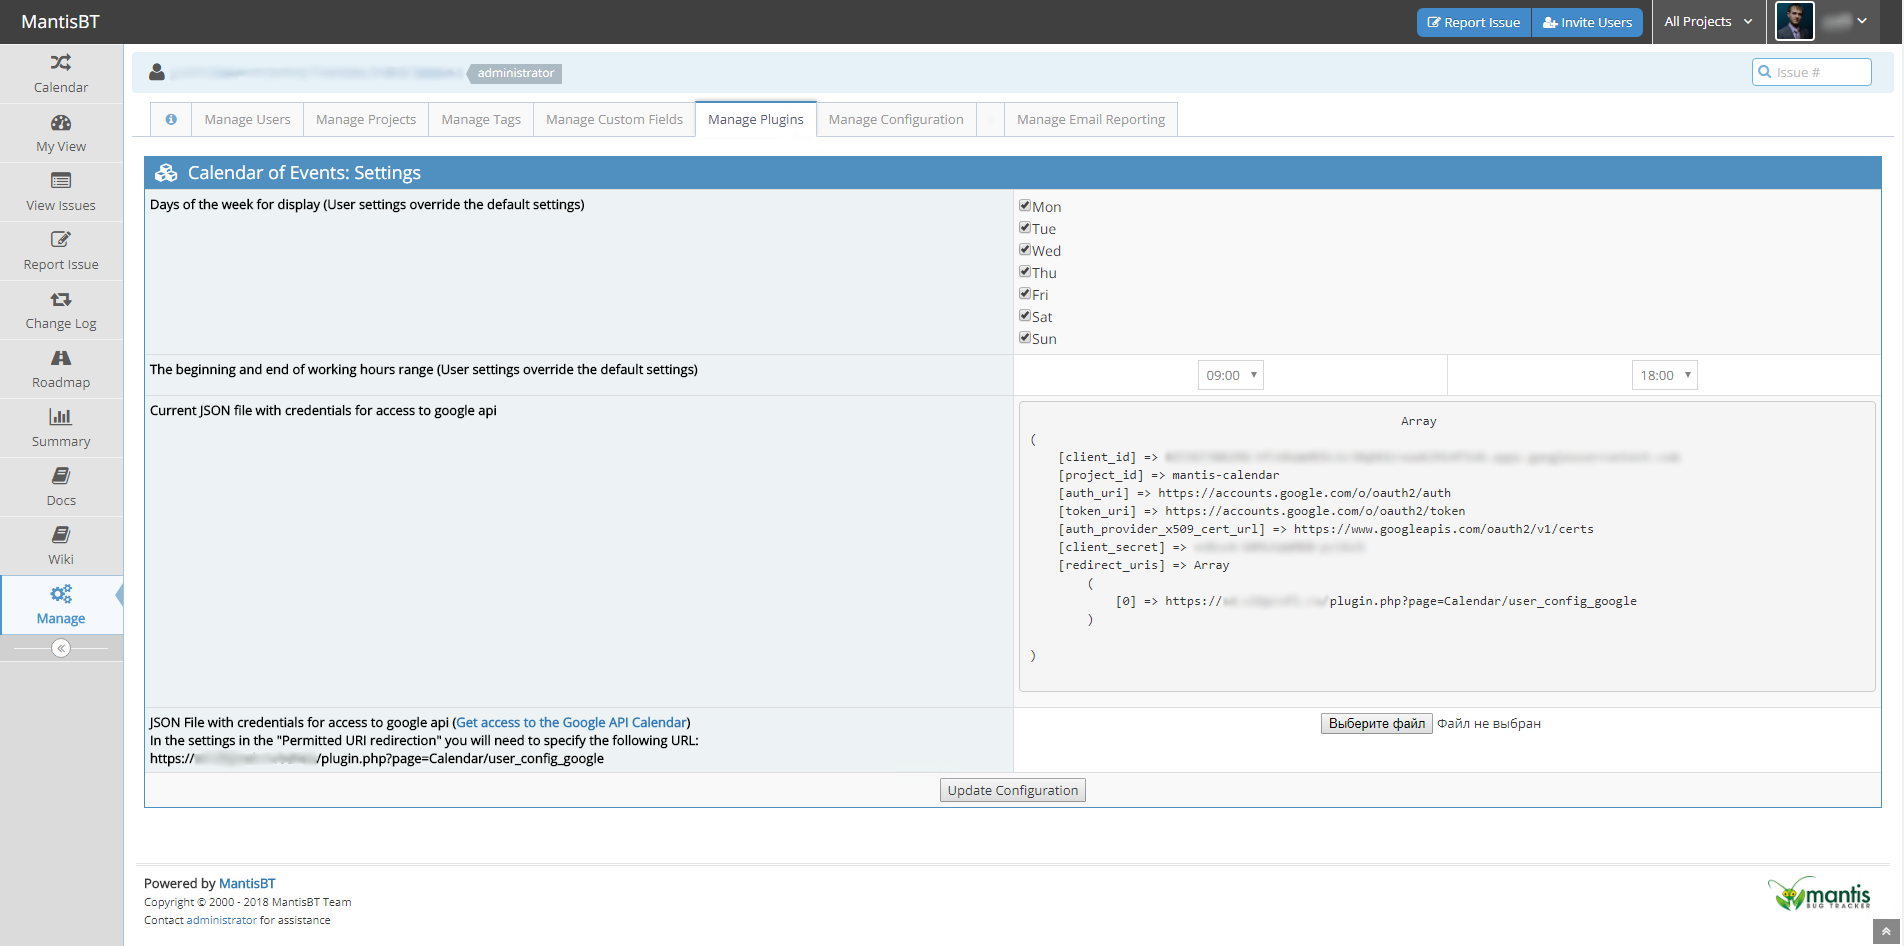
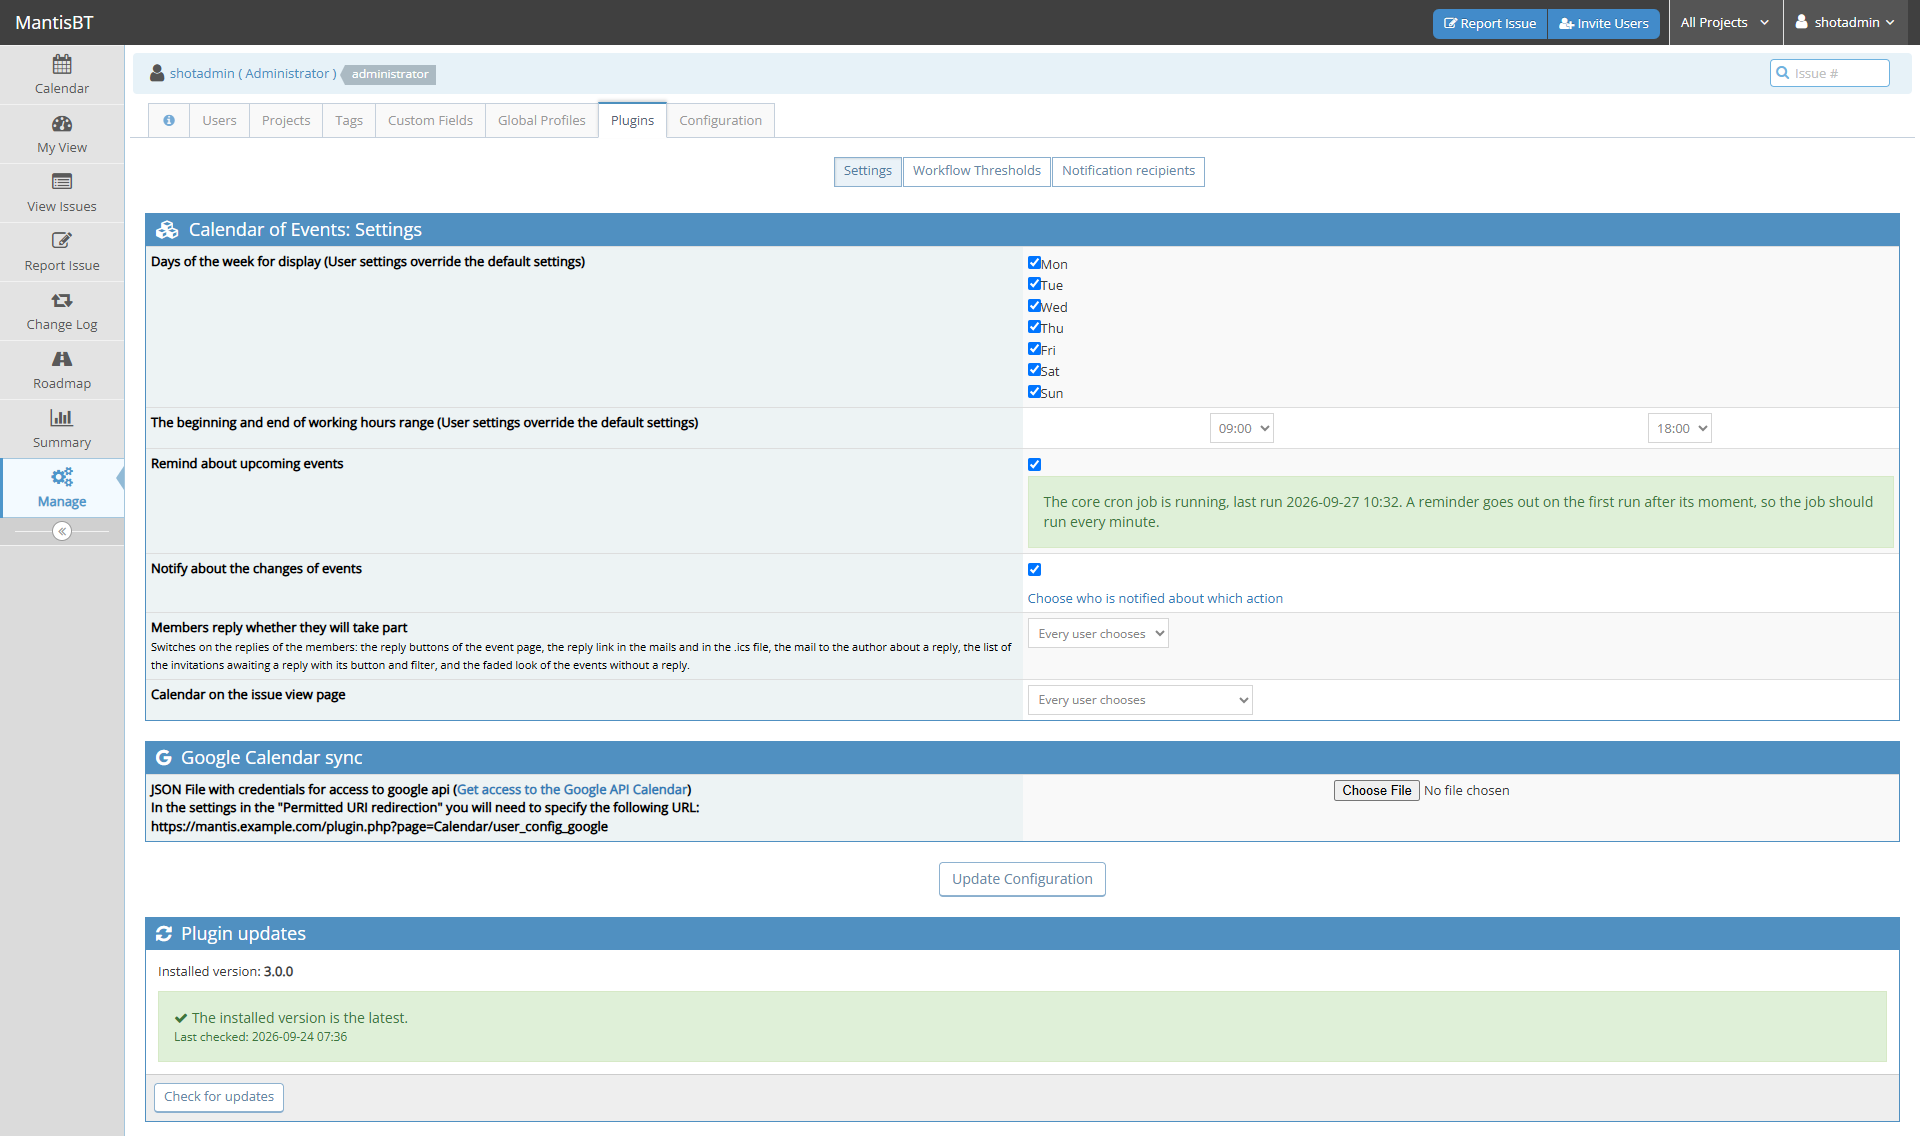
Retake the screenshots of the administration pages
The settings page, the access thresholds and the new notification
recipient matrix, as they look in 3.0.0.

diff --git a/README.md b/README.md
@@ -26,17 +26,12 @@ Screenshots
 
 ![Event view page of a recurring event with its time zone](doc/view_event_with_timezone.png)
 
-![alt text](doc/plugin_config_view.png)
-![alt text](doc/workflow_thresholds_page.png)
+![Plugin settings page](doc/plugin_config_view.png)
+![Access thresholds of the plugin](doc/workflow_thresholds_page.png)
 
 ![Event calendar tab of My Account with reminders and notifications](doc/account_event_calendar_tab.png)
 
-<!-- SCREENSHOT PLACEHOLDER (3.0.0): notification recipient matrix.
-     Manage -> Manage Plugins -> Calendar -> notification settings page with
-     the per-project matrix.
-     Save as doc/notify_config_page.png and uncomment the line below.
-![alt text](doc/notify_config_page.png)
--->
+![Notification recipients matrix](doc/notify_config_page.png)
 
 ![Event view page with description, reminders and history](doc/view_event_page.png)
 
